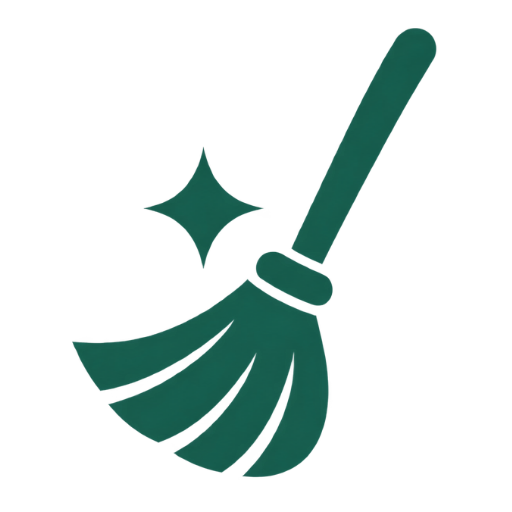
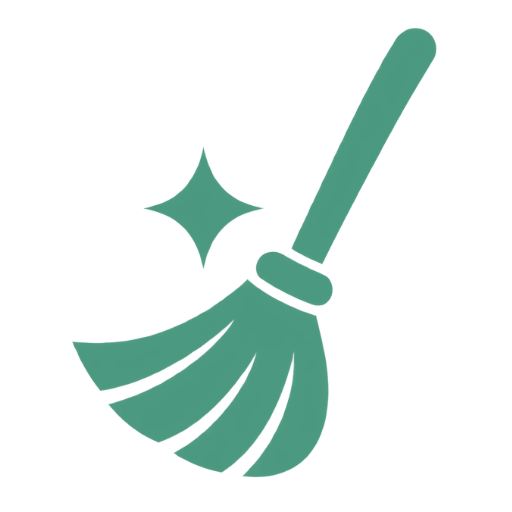
Save MagicMop branding and client context updates

Changed region(s): [[0.125, 0.0312, 0.875, 0.9375], [0.2812, 0.2812, 0.5, 0.5312]]

diff --git a/app/plugins/client-context.client.ts b/app/plugins/client-context.client.ts
@@ -1,26 +1,35 @@
-import { useCurrentUser } from '#fsd/shared/auth'
+import { getClientContextChannel, useCurrentUser } from '#fsd/shared/auth'
 export default defineNuxtPlugin({
   name: 'client-context',
   enforce: 'pre',
   setup() {
     const user = useCurrentUser()
-    const original = globalThis.$fetch
-    globalThis.$fetch = original.create({
-      onRequest({ request, options }) {
-        if (typeof request === 'string' && request.startsWith('/api/') && user.value?.isSuperuser && !user.value.inSystem) {
-          options.headers = new Headers(options.headers)
-          options.headers.set('x-client-context', `${user.value.organizationId}:${user.value.contextRevision}`)
-        }
-      },
-      onResponseError({ response }) {
-        if (response._data?.data?.code === 'CLIENT_CONTEXT_CHANGED') window.location.reload()
+    const fetch = window.fetch.bind(window)
+    // Nuxt's auto-imported $fetch keeps its original instance and calls window.fetch.
+    window.fetch = async (request, options) => {
+      const current = user.value
+      if (!current?.isSuperuser || current.inSystem) return fetch(request, options)
+
+      const url = new URL(request instanceof Request ? request.url : request, window.location.href)
+      if (url.origin !== window.location.origin || !url.pathname.startsWith('/api/')) return fetch(request, options)
+
+      const headers = new Headers(options?.headers ?? (request instanceof Request ? request.headers : undefined))
+      headers.set('x-client-context', `${current.organizationId}:${current.contextRevision}`)
+      const response = await fetch(request, { ...options, headers })
+      if (response.status === 409) {
+        const error = await response.clone().json().catch(() => null)
+        if (error?.data?.code === 'CLIENT_CONTEXT_CHANGED') window.location.reload()
       }
-    })
-    const channel = new BroadcastChannel('aparts-client-context')
+      return response
+    }
+    const channel = getClientContextChannel()
+    if (!channel) return
     channel.onmessage = () => window.location.reload()
     watch(() => user.value?.id, (current, previous) => {
       if (previous && current !== previous) channel.postMessage({ type: 'changed' })
     })
-    window.addEventListener('pagehide', () => channel.close(), { once: true })
+    window.addEventListener('pagehide', event => {
+      if (!event.persisted) channel.close()
+    })
   }
 })

diff --git a/src/pages/system/ClientsPage.vue b/src/pages/system/ClientsPage.vue
@@ -7,6 +7,7 @@ const { data: clients, refresh, status, error: loadError } = await useAsyncData<
 const search = ref('')
 const filtered = computed(() => clients.value.filter(client => `${client.name} ${client.administrators.map(admin => admin.email).join(' ')}`.toLowerCase().includes(search.value.toLowerCase())))
 const open = ref(false); const pending = ref(false); const error = ref(''); const notice = ref('')
+const enteringClientId = ref<string | null>(null)
 const selected = ref<PlatformClient | null>(null)
 const kind = ref<'create' | 'edit' | 'invite'>('create')
 const form = reactive({ name: '', timezone: 'Europe/Sofia', administratorName: '', email: '' })
@@ -40,8 +41,14 @@ async function resend(client: PlatformClient, administratorId: string) {
   catch (cause: any) { error.value = cause?.data?.statusMessage ?? 'Не удалось отправить письмо' }
 }
 async function enter(client: PlatformClient) {
+  if (enteringClientId.value) return
+  enteringClientId.value = client.id
+  error.value = ''
   try { await switchClientContext(client.id) }
-  catch (cause: any) { error.value = cause?.data?.statusMessage ?? 'Не удалось открыть клиента' }
+  catch (cause: any) {
+    error.value = cause?.data?.statusMessage ?? 'Не удалось открыть клиента'
+    enteringClientId.value = null
+  }
 }
 function actions(client: PlatformClient) {
   return [
@@ -78,7 +85,7 @@ function actions(client: PlatformClient) {
           <div v-for="admin in client.administrators" :key="admin.id" class="min-w-0"><strong>{{ admin.name }}</strong><p class="break-all text-[var(--color-muted)]">{{ admin.email }}<span v-if="admin.status === 'invited'"> · Приглашён</span></p></div>
         </div>
         <footer class="catalog-card__footer">
-          <UButton color="neutral" variant="soft" @click="enter(client)">Открыть CRM</UButton>
+          <UButton color="neutral" variant="soft" :loading="enteringClientId === client.id" :disabled="enteringClientId !== null" @click="enter(client)">Открыть CRM</UButton>
           <UDropdownMenu :items="actions(client)" :content="{ align: 'end' }" :modal="false"><UButton icon="i-lucide-ellipsis-vertical" aria-label="Действия клиента" color="neutral" variant="ghost" class="size-11" /></UDropdownMenu>
         </footer>
       </article>

diff --git a/src/app/styles/main.css b/src/app/styles/main.css
@@ -3943,6 +3943,18 @@ html[dir="rtl"] .desktop-sidebar__toggle--collapsed :is(svg, .iconify) {
   color: #526a5d;
   text-wrap: pretty;
 }
+.auth-shell__story--magicmop {
+  container-type: inline-size;
+}
+.auth-shell__story--magicmop > h1 {
+  max-width: none;
+  font-size: min(30px, 10cqi);
+  white-space: pre;
+}
+.auth-shell__story--magicmop > p {
+  font-size: min(15px, 4.6cqi);
+  white-space: pre;
+}
 .auth-product {
   display: none;
   grid-template-columns: minmax(0, 0.85fr) minmax(0, 1.15fr);
@@ -4173,6 +4185,12 @@ html[dir="rtl"] .desktop-sidebar__toggle--collapsed :is(svg, .iconify) {
   .auth-shell__story > p {
     font-size: 17px;
   }
+  .auth-shell__story--magicmop > h1 {
+    font-size: min(clamp(36px, 4vw, 46px), 10cqi);
+  }
+  .auth-shell__story--magicmop > p {
+    font-size: min(17px, 4.6cqi);
+  }
   .auth-product {
     display: grid;
     grid-template-columns: minmax(0, 1fr);
@@ -4200,6 +4218,12 @@ html[dir="rtl"] .desktop-sidebar__toggle--collapsed :is(svg, .iconify) {
   }
   .auth-shell__story > p {
     font-size: 18px;
+  }
+  .auth-shell__story--magicmop > h1 {
+    font-size: min(clamp(50px, 4vw, 56px), 10cqi);
+  }
+  .auth-shell__story--magicmop > p {
+    font-size: min(18px, 4.6cqi);
   }
   .auth-product {
     grid-template-columns: minmax(0, 0.85fr) minmax(0, 1.15fr);

diff --git a/src/shared/auth/session.ts b/src/shared/auth/session.ts
@@ -15,12 +15,20 @@ export function usesManagerOnlyNavigation(user: Pick<SessionUser, 'roles'> | nul
   )
 }
 
+let clientContextChannel: BroadcastChannel | undefined
+
+export function getClientContextChannel() {
+  if (import.meta.client && typeof BroadcastChannel !== 'undefined') {
+    clientContextChannel ??= new BroadcastChannel('aparts-client-context')
+  }
+  return clientContextChannel
+}
+
 export async function switchClientContext(organizationId: string | null) {
   await $fetch('/api/system/context', { method: 'POST', body: { organizationId } })
   if (import.meta.client) {
-    const channel = new BroadcastChannel('aparts-client-context')
-    channel.postMessage({ type: 'changed' })
-    channel.close()
+    // Use the listener's channel so this document does not receive its own message.
+    getClientContextChannel()?.postMessage({ type: 'changed' })
     // A new document discards requests, page state and realtime subscriptions.
     window.location.assign(organizationId ? '/' : '/system/clients')
   }

diff --git a/app/layouts/auth.vue b/app/layouts/auth.vue
@@ -2,6 +2,7 @@
 import { CrmBrandMark, LanguageSwitcher } from '#fsd/app'
 
 const { public: { brand } } = useRuntimeConfig()
+const isMagicMop = brand.id === 'magicmop'
 </script>
 
 <template>
@@ -12,9 +13,13 @@ const { public: { brand } } = useRuntimeConfig()
     </header>
 
     <section class="auth-shell__intro" aria-labelledby="auth-intro-title">
-      <div class="auth-shell__story">
-        <h1 id="auth-intro-title">{{ $t('auth.introTitle') }}</h1>
-        <p>{{ $t('auth.introText') }}</p>
+      <div class="auth-shell__story" :class="{ 'auth-shell__story--magicmop': isMagicMop }">
+        <h1 id="auth-intro-title">
+          {{ $t(isMagicMop ? 'auth.magicmopIntroTitle' : 'auth.introTitle') }}
+        </h1>
+        <p>
+          {{ $t(isMagicMop ? 'auth.magicmopIntroText' : 'auth.introText') }}
+        </p>
         <div class="auth-product" aria-hidden="true">
           <div class="auth-product__apartment">
             <img src="/illustrations/apartment.svg" alt="" width="640" height="440" />

diff --git a/nuxt.config.ts b/nuxt.config.ts
@@ -44,9 +44,9 @@ export default defineNuxtConfig({
       ],
       link: [
         ...(brand.id === 'magicmop' ? [
-          { rel: 'icon', type: 'image/x-icon', href: brand.faviconIco },
-          { rel: 'icon', type: 'image/png', sizes: '64x64', href: brand.faviconPng },
-          { rel: 'icon', type: brand.faviconType, sizes: 'any', href: brand.favicon }
+          { rel: 'icon', type: 'image/x-icon', href: brand.faviconIco + '?v=universal' },
+          { rel: 'icon', type: 'image/png', sizes: '64x64', href: brand.faviconPng + '?v=universal' },
+          { rel: 'icon', type: brand.faviconType, sizes: 'any', href: brand.favicon + '?v=universal' }
         ] : [{ rel: 'icon', type: brand.faviconType, href: brand.favicon }]),
         { rel: 'apple-touch-icon', sizes: '180x180', href: brand.appleIcon }
       ]

diff --git a/src/app/ui/CrmBrandMark.vue b/src/app/ui/CrmBrandMark.vue
@@ -3,6 +3,12 @@ const { public: { brand } } = useRuntimeConfig()
 </script>
 
 <template>
-  <img v-if="brand.logo" :src="brand.logo" :alt="brand.shortName" class="h-9 w-28 object-contain" width="112" height="36" />
+  <img v-if="brand.logo" :src="brand.logo" :alt="brand.shortName" class="block h-auto" width="122" height="34" />
   <template v-else>aparts<span>.</span></template>
 </template>
+
+<style scoped>
+img {
+  outline: none;
+}
+</style>

diff --git a/src/shared/auth/index.ts b/src/shared/auth/index.ts
@@ -1,1 +1,1 @@
-export { switchClientContext, clientResourceUrl, canAccessWorkSection, useCurrentUser, usesManagerOnlyNavigation, type SessionUser } from './session'
+export { switchClientContext, getClientContextChannel, clientResourceUrl, canAccessWorkSection, useCurrentUser, usesManagerOnlyNavigation, type SessionUser } from './session'
